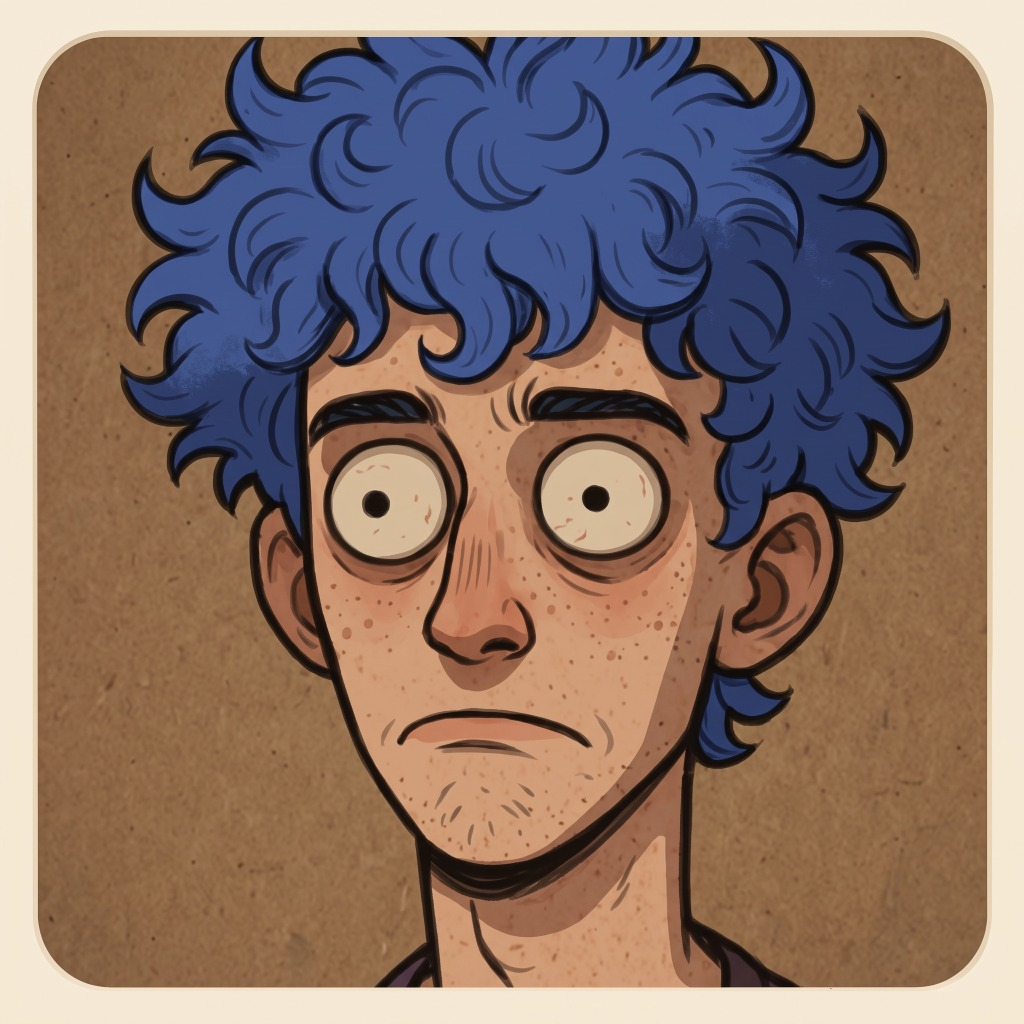
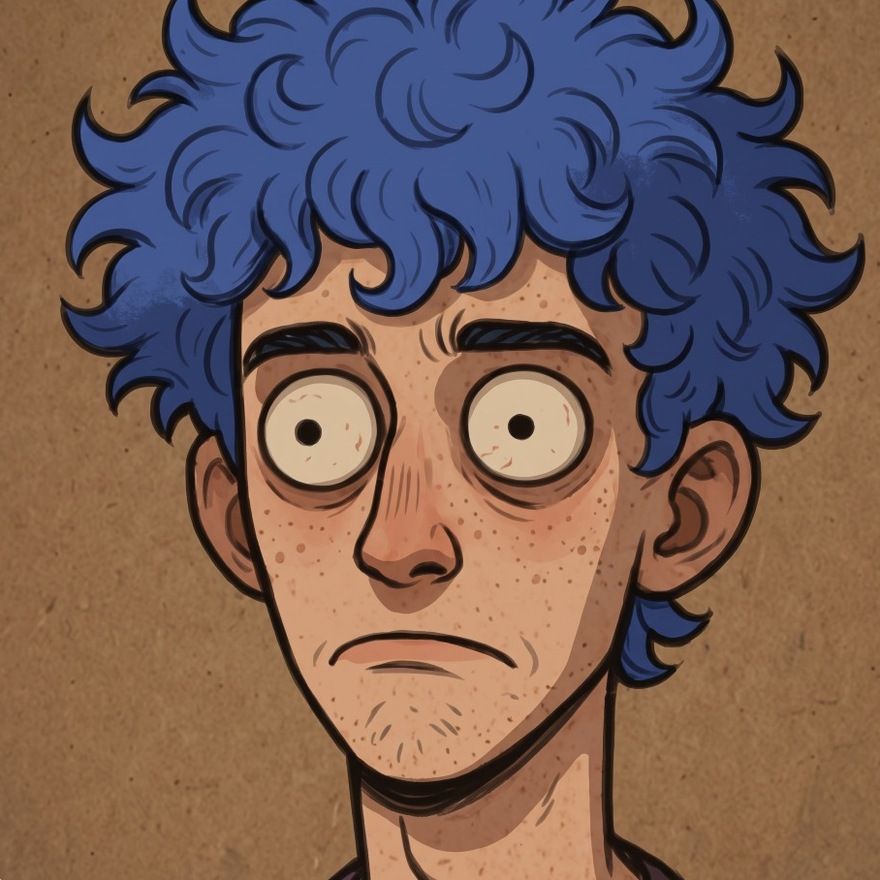
Добавлены проекты MiniBank, UptimeWatch и Drag a Beast, .NET-проекты поставлены первыми
- убрана двойная иконка кнопки меню на мобильных
- обрезаны светлые края аватарки
- убран бейдж «Флагманский проект» у AstroBot
- резюме Word обновлено: новые проекты, порядок как на сайте

diff --git a/index.html b/index.html
@@ -4,7 +4,7 @@
   <meta charset="utf-8">
   <meta name="viewport" content="width=device-width, initial-scale=1, viewport-fit=cover">
   <title>Eksailed — разработчик</title>
-  <meta name="description" content="Портфолио и резюме: Рождественский Даниил Андреевич (Eksailed). Разработка на Python (FastAPI, PostgreSQL), C# (Unity 6 VR, Windows Forms), JavaScript (Phaser 3, Яндекс.Игры SDK), Telegram-боты и Mini Apps на React. Студент 2 курса ДонНУ, выпускник ДТПА, отслужил в армии.">
+  <meta name="description" content="Портфолио и резюме: Рождественский Даниил Андреевич (Eksailed). Разработка на Python (FastAPI, PostgreSQL), C# (.NET 9, ASP.NET Core, Blazor, Unity 6 VR, Windows Forms), JavaScript (Phaser 3, Яндекс.Игры SDK), Telegram-боты и Mini Apps на React. Студент 2 курса ДонНУ, выпускник ДТПА, отслужил в армии.">
   <link rel="icon" type="image/png" sizes="32x32" href="favicon-32x32.png">
   <link rel="icon" type="image/png" sizes="16x16" href="favicon-16x16.png">
   <link rel="apple-touch-icon" sizes="180x180" href="apple-touch-icon.png">
@@ -117,7 +117,7 @@
         <h1 class="hero__title">Python & C#-разработка, геймдев, <span>веб-игры & ИИ</span></h1>
         
         <p class="hero__lead">
-          Разрабатываю бэкенд на <strong>Python</strong> (FastAPI, PostgreSQL), симуляторы и приложения на <strong>C# (Unity VR — тестовые задания, Windows Forms)</strong>, браузерные игры на <strong>JavaScript / Phaser 3</strong> под платформу <strong>Яндекс.Игры</strong>, Telegram-боты на <strong>aiogram 3.x</strong>, Mini Apps на <strong>React 18</strong> и сервисы с интеграцией <strong>LLM-моделей</strong>. Всё упаковываю в <strong>Docker</strong>.
+          Разрабатываю бэкенд на <strong>Python</strong> (FastAPI, PostgreSQL) и <strong>C# / .NET 9</strong> (ASP.NET Core, Blazor, EF Core), симуляторы и приложения на <strong>C# (Unity VR — тестовые задания, Windows Forms)</strong>, браузерные игры на <strong>JavaScript / Phaser 3</strong> под платформу <strong>Яндекс.Игры</strong>, Telegram-боты на <strong>aiogram 3.x</strong>, Mini Apps на <strong>React 18</strong> и сервисы с интеграцией <strong>LLM-моделей</strong>. Всё упаковываю в <strong>Docker</strong>.
         </p>
 
         <div class="hero__actions">
@@ -178,11 +178,66 @@
 
       <div class="bento">
 
+        <!-- Case 1b: MiniBank (Half Bento) -->
+        <article class="case case--half">
+          <div class="case__body">
+            <div>
+              <span class="case__role">Бэкенд • C# / .NET 9</span>
+              <h3 class="case__title">MiniBank — Банковский бэкенд на .NET</h3>
+              <p class="case__text">
+                Учебный банковский бэкенд на ASP.NET Core: счета, переводы, леджер с двойной записью, идемпотентность запросов и корректность при параллельных операциях. Веб-клиент на React + TypeScript. Деньги не настоящие.
+              </p>
+              <ul class="case__highlights">
+                <li>Двойная запись: каждый перевод — две проводки, проводки только добавляются, UPDATE/DELETE запрещены триггерами в БД</li>
+                <li>Идемпотентность через <code>Idempotency-Key</code> и пессимистичные блокировки <code>FOR UPDATE</code> в едином порядке — без двойного списания и взаимоблокировок</li>
+                <li>JWT-вход, подтверждение email, владение счетами, лимиты, выписки с экспортом в CSV</li>
+                <li>Интеграционные тесты на Testcontainers, Docker Compose, CI в GitHub Actions. Этапы 1–4 из 6 готовы</li>
+              </ul>
+            </div>
+
+            <div>
+              <ul class="tags">
+                <li>C#</li><li>ASP.NET Core (.NET 9)</li><li>EF Core 9</li><li>PostgreSQL 17</li><li>JWT</li><li>React</li><li>TypeScript</li><li>Docker</li><li>GitHub Actions</li>
+              </ul>
+              <a class="case__link" href="https://github.com/Eksailed/MiniBank" target="_blank" rel="noopener">
+                Репозиторий MiniBank <svg class="icon" aria-hidden="true"><use href="#i-arrow"></use></svg>
+              </a>
+            </div>
+          </div>
+        </article>
+
+        <!-- Case 1c: UptimeWatch (Half Bento) -->
+        <article class="case case--half">
+          <div class="case__body">
+            <div>
+              <span class="case__role">Веб-сервис • C# / .NET 9</span>
+              <h3 class="case__title">UptimeWatch — Мониторинг доступности сайтов</h3>
+              <p class="case__text">
+                Сервис на Blazor Server: пользователь добавляет сайты, фоновый планировщик проверяет их, ведёт историю и аптайм, открывает инциденты и присылает алерты в Telegram о падении и восстановлении.
+              </p>
+              <ul class="case__highlights">
+                <li>Живой дашборд без перезагрузки страницы на Blazor Server и SignalR</li>
+                <li>Защита от SSRF на уровне соединения: проверка IP при каждом резолве и редиректе, запрет loopback и приватных сетей</li>
+                <li>Аренда мониторов через <code>FOR UPDATE SKIP LOCKED</code>, инциденты после 3 неудачных проверок подряд, ASP.NET Core Identity</li>
+                <li>Интерфейс на русском и английском (RU | EN), Clean Architecture, xUnit + Testcontainers, CI</li>
+              </ul>
+            </div>
+
+            <div>
+              <ul class="tags">
+                <li>C#</li><li>Blazor Server</li><li>SignalR</li><li>EF Core</li><li>PostgreSQL 17</li><li>Identity</li><li>Telegram Bot API</li><li>Docker Compose</li><li>xUnit</li>
+              </ul>
+              <a class="case__link" href="https://github.com/Eksailed/UptimeWatch" target="_blank" rel="noopener">
+                Репозиторий UptimeWatch <svg class="icon" aria-hidden="true"><use href="#i-arrow"></use></svg>
+              </a>
+            </div>
+          </div>
+        </article>
+
         <!-- Case 1: AstroBot (Hero Bento) -->
         <article class="case case--hero">
           <div class="case__body">
             <div>
-              <span class="case__role case__role--own">Флагманский проект</span>
               <h3 class="case__title">AstroBot — Персональный AI-астролог + Mini App</h3>
               <p class="case__text">
                 Полноценная экосистема персонализированного астрологического сервиса: высокоточные астрономические расчеты швейцарских эфемерид (Swiss Ephemeris), контекстный чат с ИИ на базе <strong>Qwen 2.5 72B</strong>, Telegram Stars монетизация и встроенный интерактивный Mini App на React 18.
@@ -361,6 +416,53 @@
           </div>
         </article>
 
+        <!-- Case 7: Drag a Beast (Hero Bento) -->
+        <article class="case case--hero">
+          <div class="case__body">
+            <div>
+              <span class="case__role">Roblox • Командный проект • В разработке</span>
+              <h3 class="case__title">Drag a Beast Home — Кооперативный steal-тайкун на Roblox (в разработке)</h3>
+              <p class="case__text">
+                Игра для Roblox на двоих разработчиков: оглуши чудище, привяжи верёвку и дотащи до базы, пока другие игроки пытаются перерезать верёвку и увести добычу. Сейчас готов первый вертикальный срез — карта и чудища создаются кодом.
+              </p>
+              <ul class="case__highlights">
+                <li>Дизайн-документ, PRD, исследование ниши и план MVP на 4 недели; задачи разбиты на вертикальные срезы в ROADMAP</li>
+                <li>Код в Git и синхронизация со Studio через Rojo; сервер, клиент и общие модули разделены по папкам</li>
+                <li>Весь баланс первого среза вынесен в один <code>Config.luau</code> — правится без изменения логики</li>
+              </ul>
+            </div>
+
+            <div>
+              <ul class="tags">
+                <li>Luau</li><li>Roblox Studio</li><li>Rojo</li><li>Game Design</li><li>Git</li>
+              </ul>
+              <a class="case__link" href="https://github.com/Eksailed/drag-a-beast" target="_blank" rel="noopener">
+                Репозиторий drag-a-beast <svg class="icon" aria-hidden="true"><use href="#i-arrow"></use></svg>
+              </a>
+            </div>
+          </div>
+
+          <div class="case__media">
+            <div class="code-preview">
+<span class="cm">-- src/shared/Config.luau: весь баланс в одном месте</span>
+<span class="kw">local</span> Config = {}
+
+Config.StunRange = <span class="fn">14</span>      <span class="cm">-- студов до чудища</span>
+Config.StunCooldown = <span class="fn">1.5</span>  <span class="cm">-- секунд между оглушениями</span>
+Config.StunDuration = <span class="fn">60</span>   <span class="cm">-- пока чудище оглушено</span>
+Config.RopeLength = <span class="fn">10</span>
+
+Config.Beasts = {
+    Common = {
+        DisplayName = <span class="str">"Грибун"</span>,
+        Reward = <span class="fn">10</span>,
+    },
+}
+<span class="kw">return</span> Config
+            </div>
+          </div>
+        </article>
+
       </div>
     </div>
   </section>
@@ -386,6 +488,10 @@
           <button class="ai-tab" role="tab" id="tab-unity" aria-controls="panel-unity" aria-selected="false">
             <svg class="icon" aria-hidden="true"><use href="#i-code"></use></svg>
             <span>Unity 6 VR & GameDev</span>
+          </button>
+          <button class="ai-tab" role="tab" id="tab-dotnet" aria-controls="panel-dotnet" aria-selected="false">
+            <svg class="icon" aria-hidden="true"><use href="#i-server"></use></svg>
+            <span>C# / .NET бэкенд</span>
           </button>
           <button class="ai-tab" role="tab" id="tab-bots" aria-controls="panel-bots" aria-selected="false">
             <svg class="icon" aria-hidden="true"><use href="#i-robot"></use></svg>
@@ -449,6 +555,33 @@
         <span class="kw">async with</span> self.session_pool() <span class="kw">as</span> session:
             data[<span class="str">"session"</span>] = session
             <span class="kw">return await</span> handler(event, data)
+              </div>
+            </div>
+          </div>
+
+          <!-- Panel: C# / .NET backend -->
+          <div class="ai-panel" role="tabpanel" id="panel-dotnet" aria-labelledby="tab-dotnet">
+            <div class="ai-panel__text">
+              <h3>Корректные деньги и надёжные фоновые задачи на .NET 9</h3>
+              <p>ASP.NET Core, EF Core и PostgreSQL: бизнес-правила в доменном слое, а гонки и повторы запросов закрыты на уровне базы данных.</p>
+              <ul class="checks">
+                <li>Двойная запись в леджере, идемпотентные операции по <code>Idempotency-Key</code>, блокировки счетов в едином порядке и автоповтор при 40001/40P01.</li>
+                <li>Фоновый планировщик с арендой задач через <code>FOR UPDATE SKIP LOCKED</code> и живой дашборд на Blazor Server + SignalR.</li>
+                <li>Безопасность: JWT, подтверждение email, лимиты запросов, защита от SSRF на уровне соединения.</li>
+                <li>Интеграционные тесты на xUnit + Testcontainers, CI в GitHub Actions, запуск одной командой через Docker Compose.</li>
+              </ul>
+              <p class="ai-panel__where">Реализовано в проектах MiniBank и UptimeWatch.</p>
+            </div>
+            <div class="ai-panel__code">
+              <div class="code-preview">
+<span class="cm">-- Блокировка обоих счетов в одном порядке</span>
+<span class="kw">SELECT</span> * <span class="kw">FROM</span> accounts
+<span class="kw">WHERE</span> id = <span class="kw">ANY</span>(@ids)
+<span class="kw">ORDER BY</span> id
+<span class="kw">FOR UPDATE</span>;
+
+<span class="cm">-- Встречные переводы не создают взаимоблокировок;</span>
+<span class="cm">-- при SQLSTATE 40001/40P01 операция повторяется до 3 раз</span>
               </div>
             </div>
           </div>
@@ -560,9 +693,9 @@ services:
       <div class="services-grid">
         <div class="service-card">
           <div class="service-card__icon"><svg class="icon"><use href="#i-server"></use></svg></div>
-          <h3>Бэкенд на Python & REST API</h3>
-          <p>Проектирование и разработка масштабируемых API на FastAPI, чистая архитектура, строгая валидация Pydantic, безопасность и авторизация.</p>
-          <div class="service-card__where">FastAPI, SQLAlchemy 2.0, asyncpg, Alembic</div>
+          <h3>Бэкенд на Python, C# / .NET & REST API</h3>
+          <p>Проектирование и разработка API на FastAPI и ASP.NET Core, чистая архитектура, строгая валидация, безопасность и авторизация (JWT), идемпотентность и корректность при параллельных запросах.</p>
+          <div class="service-card__where">FastAPI, SQLAlchemy 2.0, ASP.NET Core, EF Core, Blazor</div>
         </div>
 
         <div class="service-card">
@@ -611,7 +744,7 @@ services:
           <h2 class="section__title">Обо мне</h2>
         </header>
         <p>
-          Меня зовут <strong>Рождественский Даниил Андреевич</strong> (в сети известен как <strong>Eksailed</strong>). Я разработчик на <strong>Python и C#</strong> (FastAPI, Unity 6 VR, Windows Forms, Phaser 3) с хорошей фундаментальной инженерной базой и тягой к чистому коду.
+          Меня зовут <strong>Рождественский Даниил Андреевич</strong> (в сети известен как <strong>Eksailed</strong>). Я разработчик на <strong>Python и C#</strong> (FastAPI, ASP.NET Core, Blazor, Unity 6 VR, Windows Forms, Phaser 3) с хорошей фундаментальной инженерной базой и тягой к чистому коду.
         </p>
         <p>
           Учусь на <strong>2 курсе Донецкого национального университета (ДонНУ)</strong>. До поступления в университет окончил <strong>Донецкий техникум промышленной автоматики (ДТПА)</strong>, получив диплом о среднем профессиональном образовании в сфере вычислительных систем и автоматики.
@@ -645,12 +778,12 @@ services:
 
         <h3 class="facts-card__sub">Основной стек</h3>
         <ul class="chips-list">
-          <li>Python 3.11</li><li>C# (WinForms, WPF, Unity)</li><li>C++</li><li>JavaScript (Phaser 3)</li><li>FastAPI</li><li>SQLAlchemy 2.0</li><li>asyncpg</li><li>aiogram 3</li><li>PostgreSQL</li><li>Redis</li><li>Docker</li><li>Git</li><li>Linux</li>
+          <li>Python 3.11</li><li>C# (.NET 9, WinForms, WPF, Unity)</li><li>C++</li><li>JavaScript (Phaser 3)</li><li>TypeScript</li><li>FastAPI</li><li>ASP.NET Core</li><li>Blazor</li><li>EF Core</li><li>SQLAlchemy 2.0</li><li>asyncpg</li><li>aiogram 3</li><li>PostgreSQL</li><li>Redis</li><li>Docker</li><li>Git</li><li>Linux</li>
         </ul>
 
         <h3 class="facts-card__sub">ИИ, GameDev и SDK</h3>
         <ul class="chips-list chips-list--accent">
-          <li>Qwen 2.5 72B</li><li>OpenRouter</li><li>Unity VR (тестовое задание)</li><li>OpenXR</li><li>Яндекс Игры SDK v2</li><li>Telegram Stars</li><li>React 18</li>
+          <li>Qwen 2.5 72B</li><li>OpenRouter</li><li>Roblox / Luau</li><li>Unity VR (тестовое задание)</li><li>OpenXR</li><li>Яндекс Игры SDK v2</li><li>Telegram Stars</li><li>React 18</li>
         </ul>
       </div>
     </div>
@@ -704,6 +837,7 @@ services:
             <legend>Что требуется</legend>
             <div class="pick-grid">
               <label class="pick-item"><input type="checkbox" name="kind" value="Python-бэкенд (FastAPI)"><span>Python-бэкенд</span></label>
+              <label class="pick-item"><input type="checkbox" name="kind" value="C# / .NET бэкенд (ASP.NET Core)"><span>C# / .NET бэкенд</span></label>
               <label class="pick-item"><input type="checkbox" name="kind" value="Telegram-бот (aiogram)"><span>Telegram-бот</span></label>
               <label class="pick-item"><input type="checkbox" name="kind" value="Telegram Mini App"><span>Telegram Mini App</span></label>
               <label class="pick-item"><input type="checkbox" name="kind" value="Unity 6 / VR-тренажёр"><span>Unity 6 / VR</span></label>

diff --git a/style.css b/style.css
@@ -389,6 +389,15 @@ h1, h2, h3, h4, .brand__name {
   display: none;
 }
 
+/* Burger / close icon state */
+.nav-toggle .icon--close,
+.nav-toggle[aria-expanded="true"] .icon--menu {
+  display: none;
+}
+.nav-toggle[aria-expanded="true"] .icon--close {
+  display: block;
+}
+
 /* Theme toggle icon state */
 .icon--moon, .icon--sun {
   display: none;
